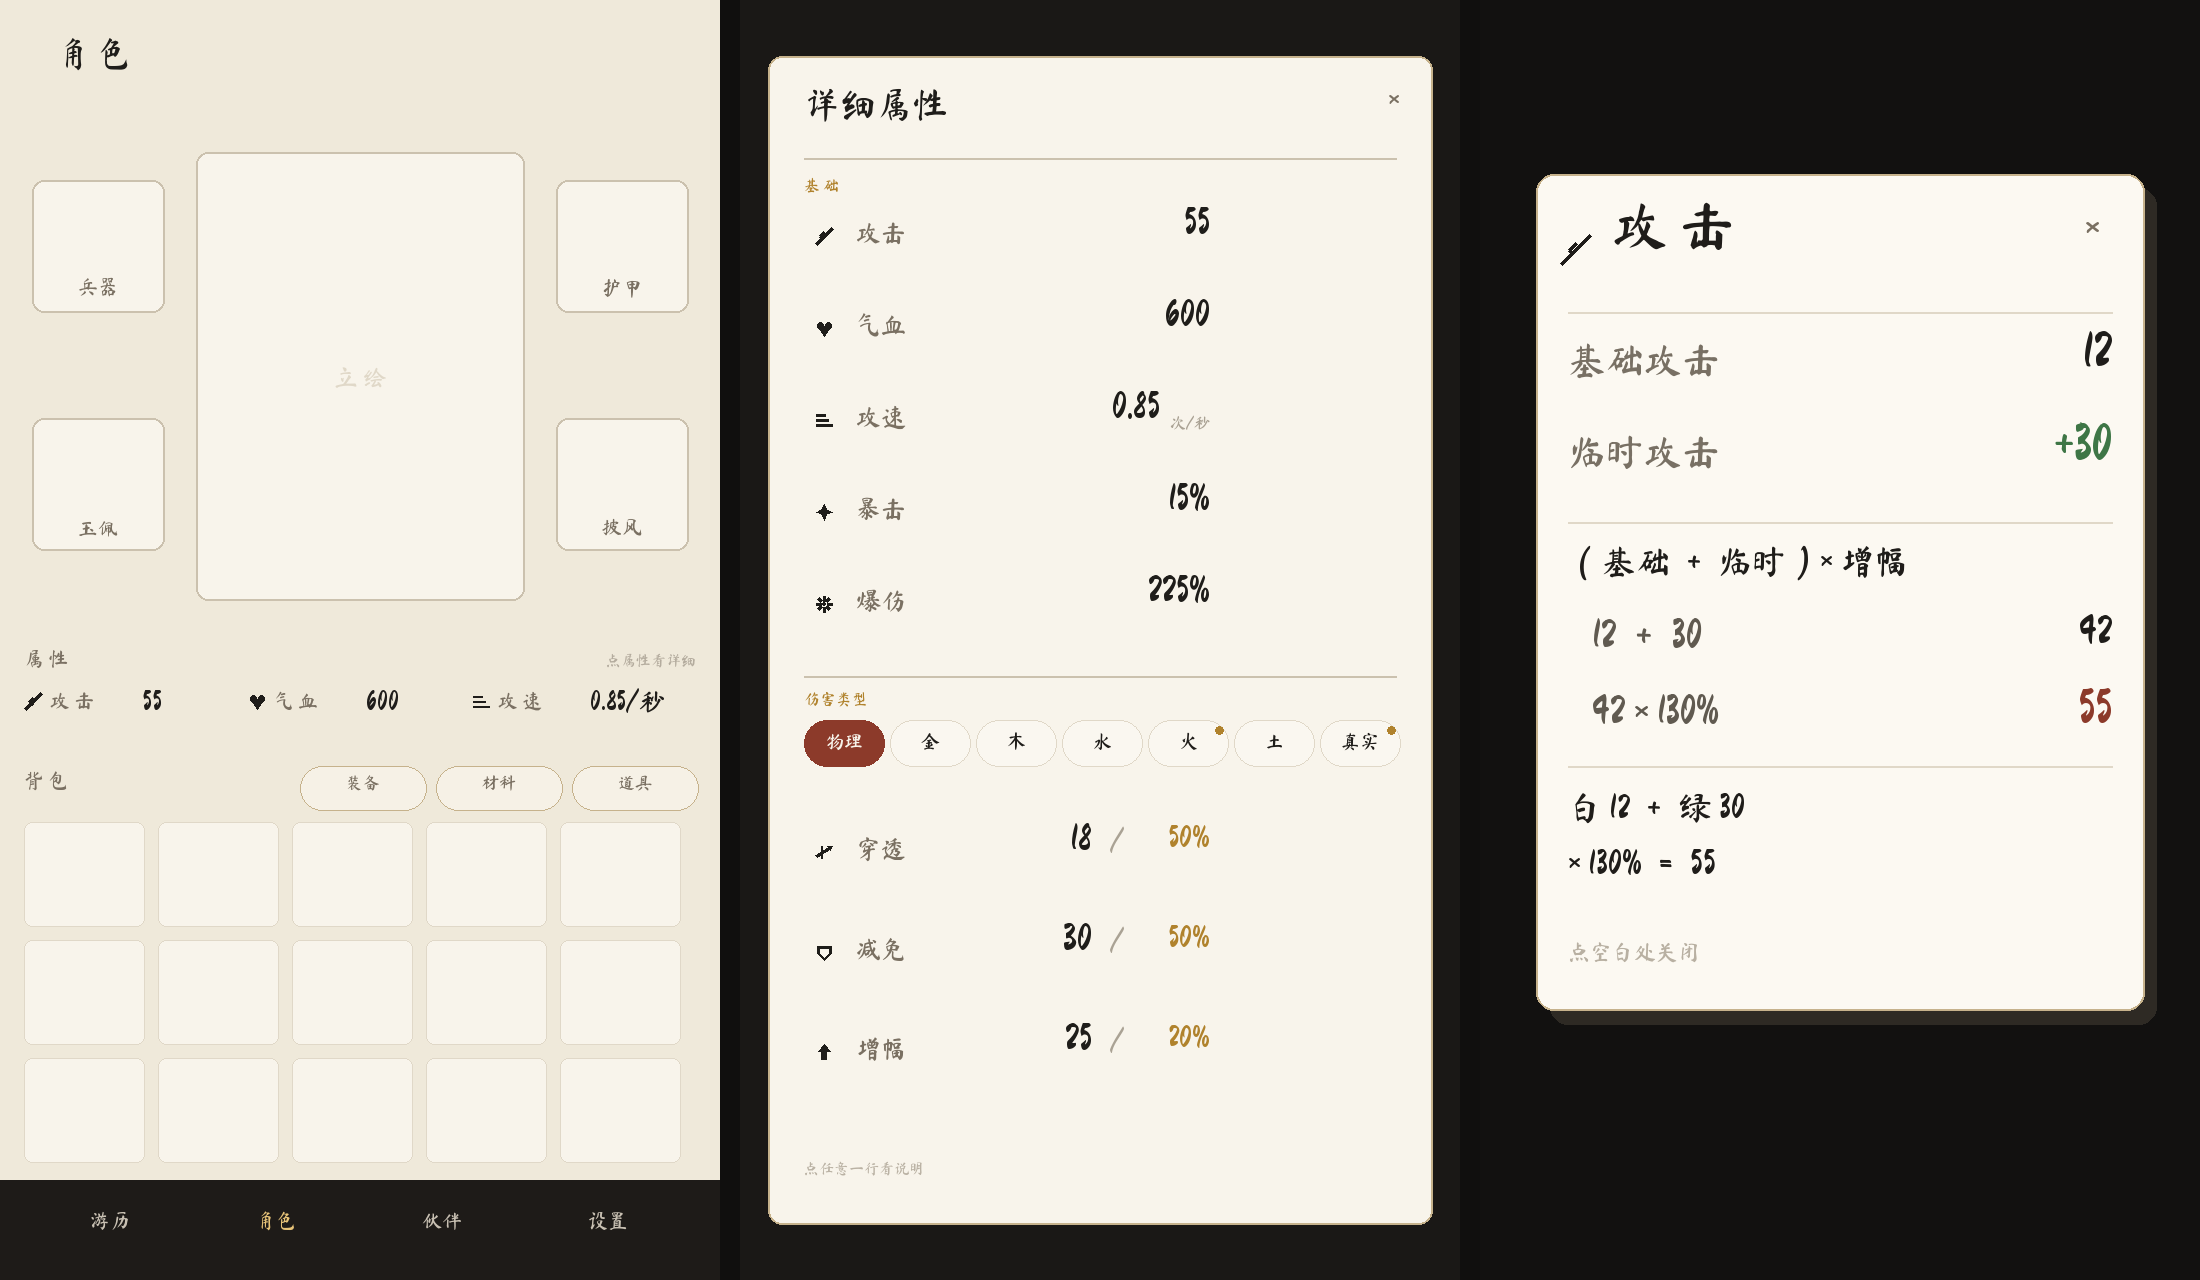
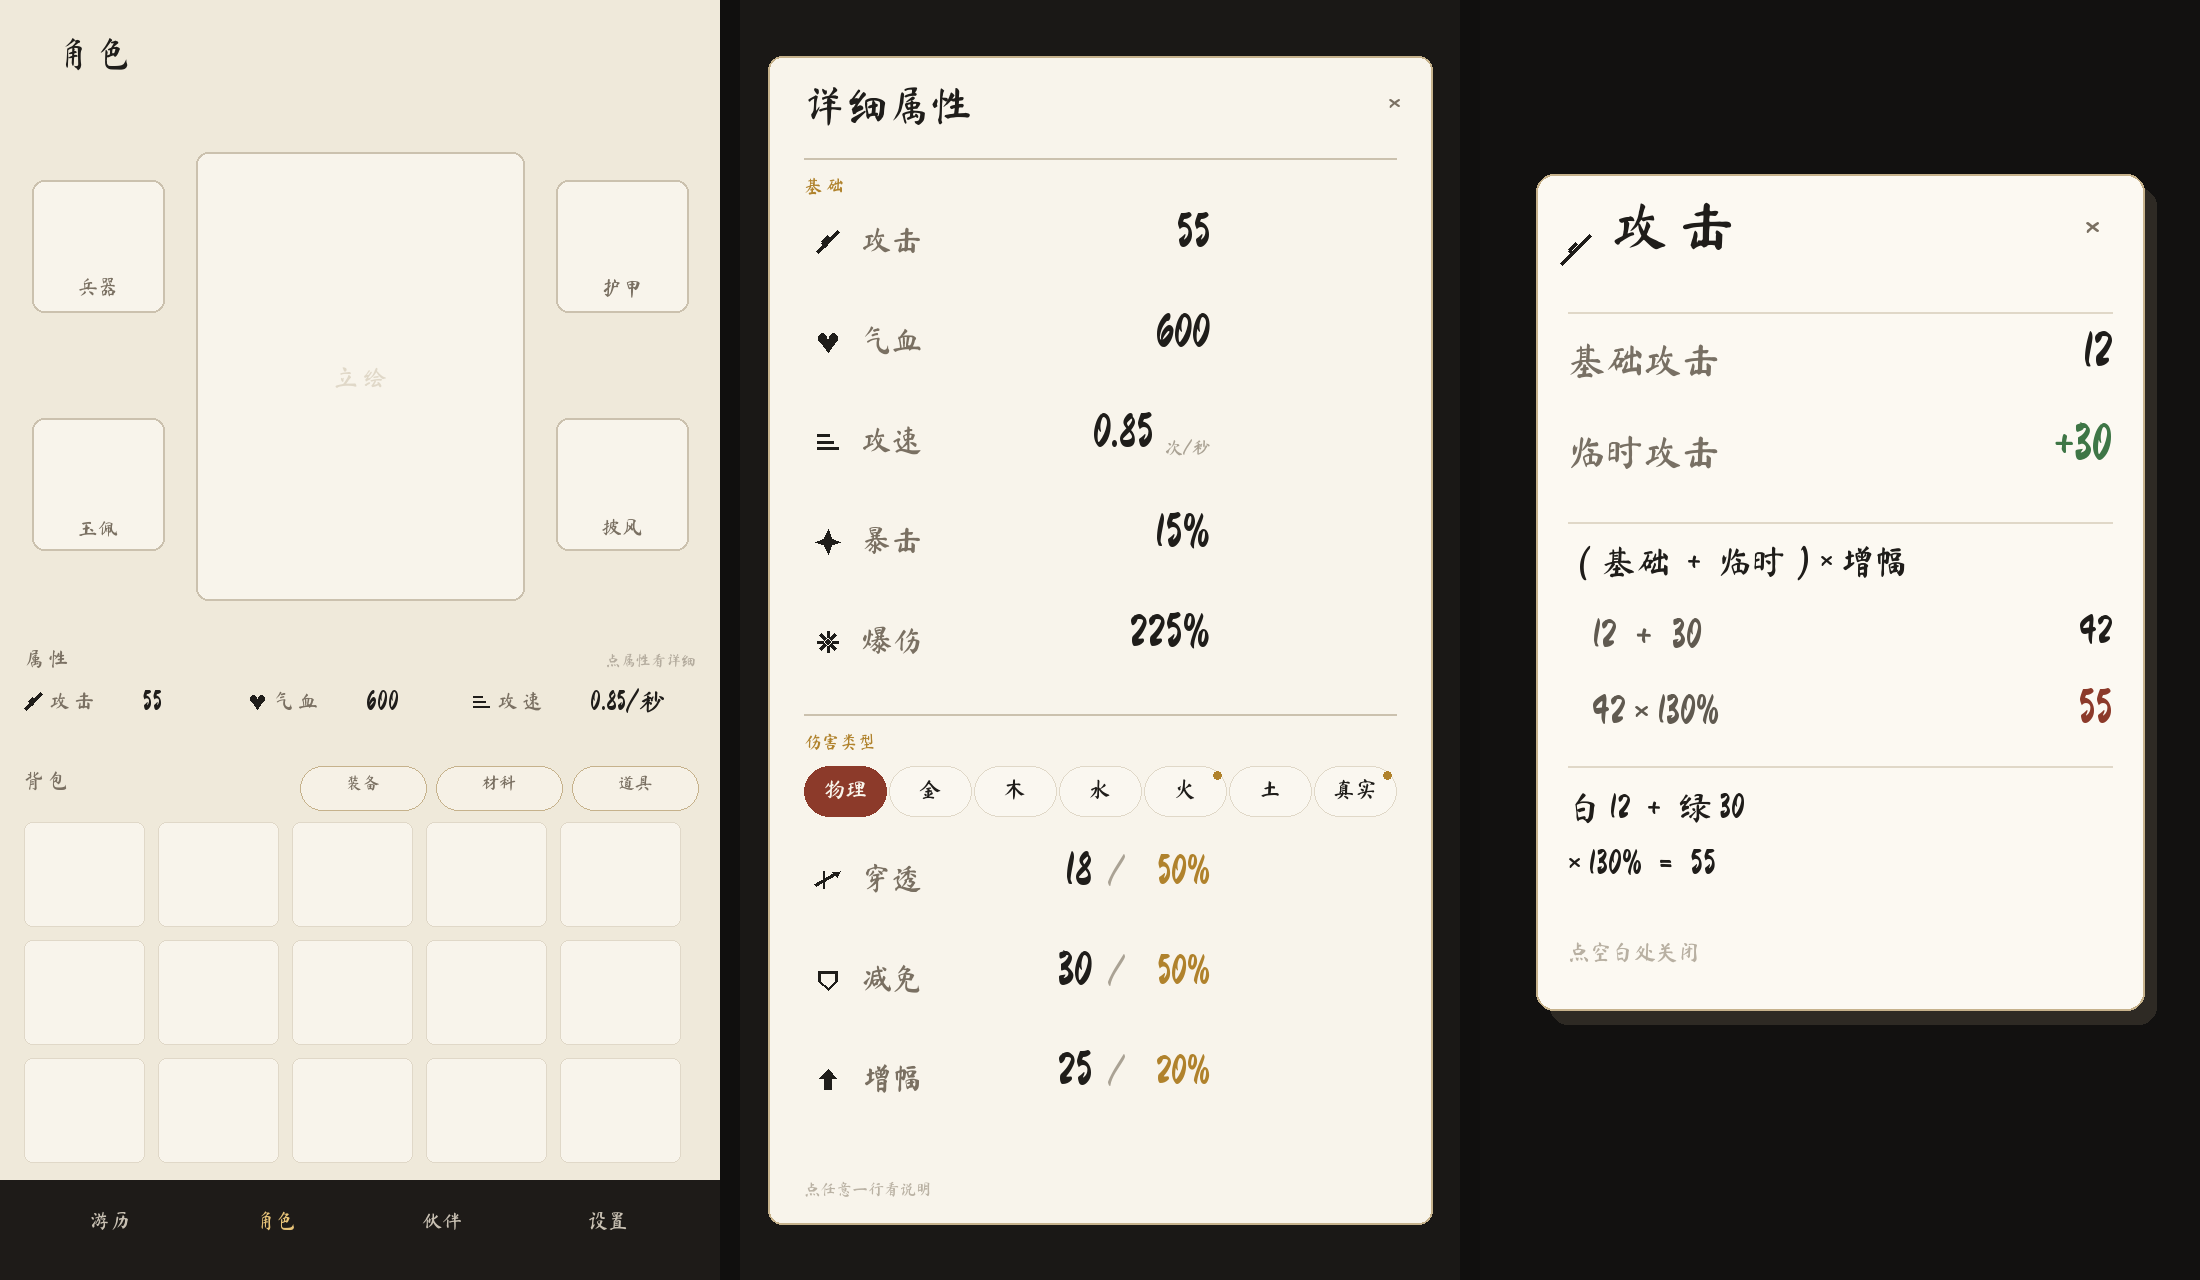
文档：详细页字号整体放大（标题42/名称30/数值46/行高100）

diff --git a/docs/人物属性_设计稿.md b/docs/人物属性_设计稿.md
@@ -268,14 +268,14 @@
 | 元素 | 值 |
 |---|---|
 | 面板 | `(28, 56) – (692, 1224)` |
-| 标题 | 36px，左边距 64 |
-| 分组标签（基 础 / 伤害类型） | 16px 金色 |
-| **行高** | **92px** —— 够大、不挤 |
-| 名称 | 25px 灰 |
-| 数值 | **36px 墨黑**，右对齐 `x = 470`（拉到中间，别贴着纸边） |
-| 额外加成 | 20px **绿** |
+| 标题 | 42px，左边距 64 |
+| 分组标签（基 础 / 伤害类型） | 18px 金色 |
+| **行高** | **100px** —— 够大、不挤 |
+| 名称 | 30px 灰 |
+| 数值 | **46px 墨黑**，右对齐 `x = 470`（拉到中间，别贴着纸边） |
+| 百分比段 | 40px **金** |
 | 增幅 | 18px **金**，右对齐 `x = 656` |
-| 页签 | 80×46，圆角 23，间距 6 |
+| 页签 | 82×50，圆角 25，间距 3 |
 
 > **伤害类型区只列三条：穿透 / 减免 / 增幅。**
 > 「该系攻击默认＝总攻击」是**内部规则，不上界面** —— 玩家不需要知道，看着只会懵。
